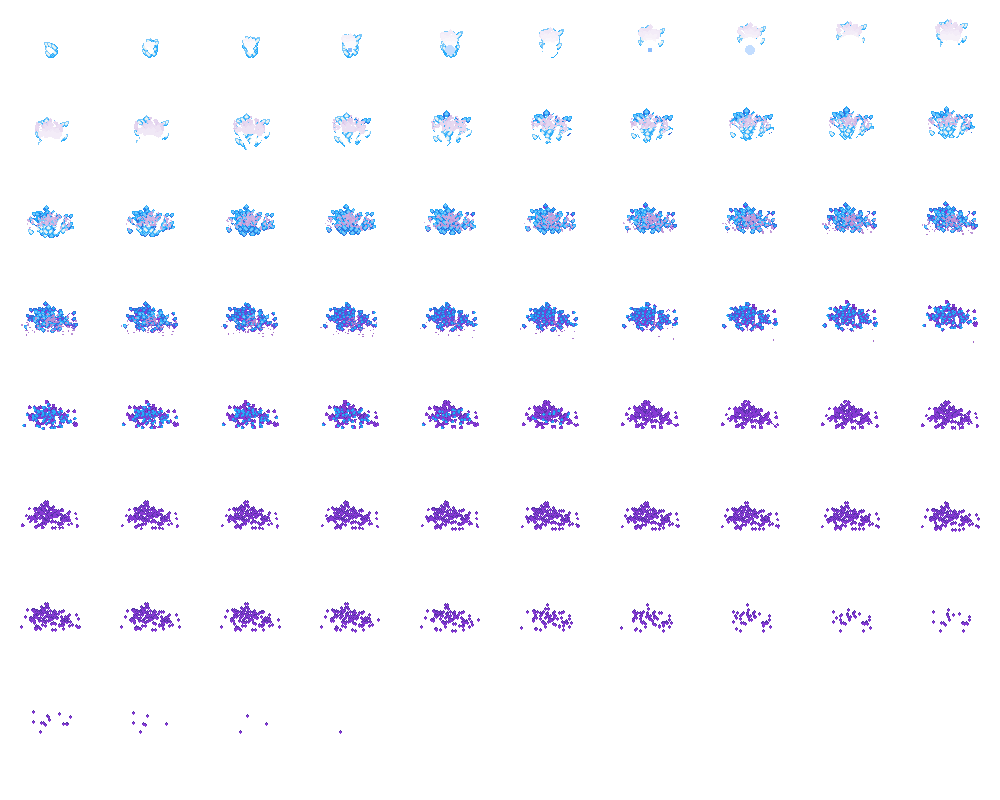
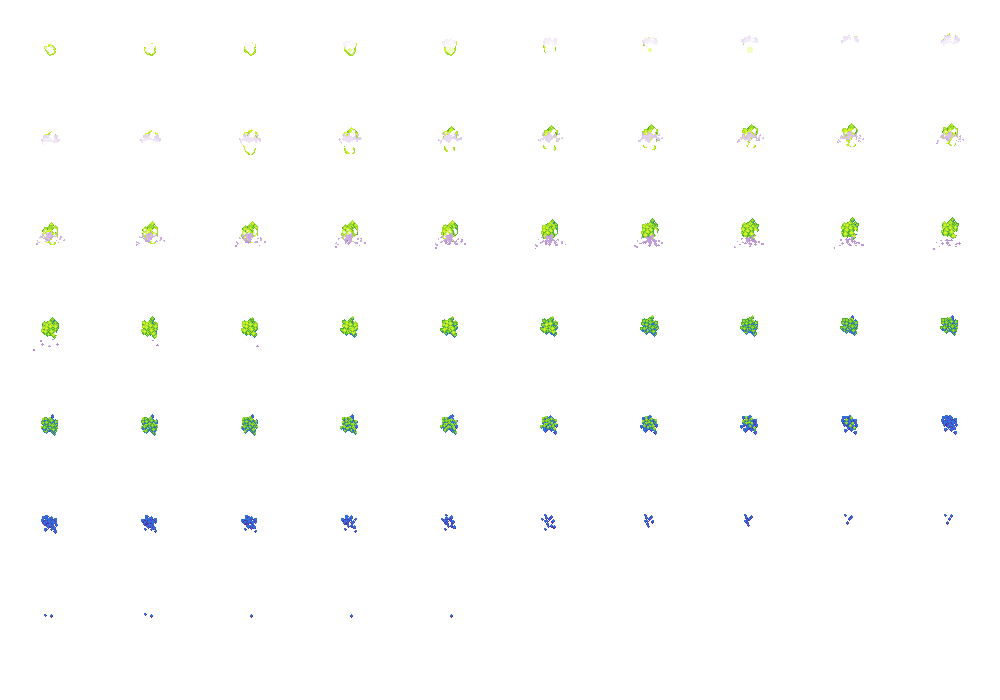
[SCENE] Lose life effect and sound

diff --git a/src/scenes/game.js b/src/scenes/game.js
@@ -19,6 +19,7 @@ import Trash from '../sprites/trash';
 
 // audio
 import scoreSound from '../assets/audio/coin.mp3'
+import crushSound from '../assets/audio/crush.mp3'
 
 // plugins
 import eventCenter from '../plugins/eventCenter';
@@ -52,6 +53,7 @@ class Game extends Phaser.Scene {
 		
     // load score sound
     this.load.audio('scoreSound', scoreSound);
+    this.load.audio('crushSound', crushSound);
   }
 
   drawBackground() {
@@ -80,11 +82,12 @@ class Game extends Phaser.Scene {
     // set score sound
     this.sound.add('scoreSound');
 
-    // stage 전환 효과
+    // life lose 효과
     this.anims.create({
       key: 'boom',
-      frames: [{ key: 'boom', frame: 0 }],
-      frameRate: 20,
+      frameRate: 100,
+      frames: this.anims.generateFrameNumbers('boom', { start: 0, end: 64 }),
+      repeat: 0,
     });
 
     // Create Player
@@ -219,15 +222,14 @@ class Game extends Phaser.Scene {
     }
     // set score board
     this.scoreBoard.setText(`SCORE: ${this.score}`);
-    let lives = this.add.group();
+    this.lives = this.add.group();
     for(let i = 0; i < 5; i++) {
-      const life = lives.create(i*35 + 30, 50, i < this.life ? 'life_on' : 'life_off');
+      const life = this.lives.create(i*35 + 30, 50, i < this.life ? 'life_on' : 'life_off');
       life.setScale(0.6);
     }
 
     // 사전에 정의한 STAGE_SCORE 를 넘으면 스테이지 업
     if (STAGE_SCORE[this.stage] <= this.score && STAGE_SCORE.length - 1 > this.stage) {
-      console.log('stage score:', STAGE_SCORE[this.stage], '  this score:', this.score, '    this stage:', this.stage, '/', STAGE_SCORE.length);
       this.stageUp();
     }
   }
@@ -272,7 +274,18 @@ class Game extends Phaser.Scene {
   }
 
   lossLife() {
-		this.life = this.life - 1;
+    this.life = this.life - 1;
+    if (this.life >= 0) {
+      this.sound.play('crushSound', { volume: 0.3 });
+
+      // 삭제 될 지구 아이콘 위치를 가져와서 폭발 효과를 추가
+      const target = this.add.sprite(
+        this.lives.children.entries[this.life].x,
+        this.lives.children.entries[this.life].y,
+      ).setDepth(999)
+      .play('boom')
+      .once('animationcomplete', () => { target.destroy(); });
+    }
 
     // game over
     if (!this.life) {
